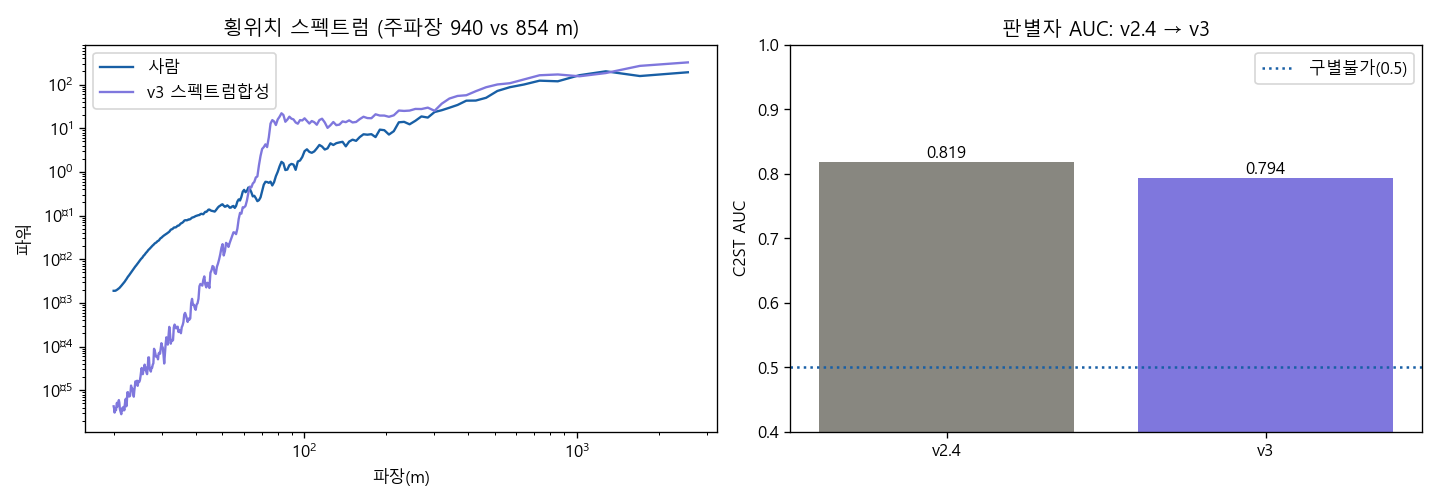
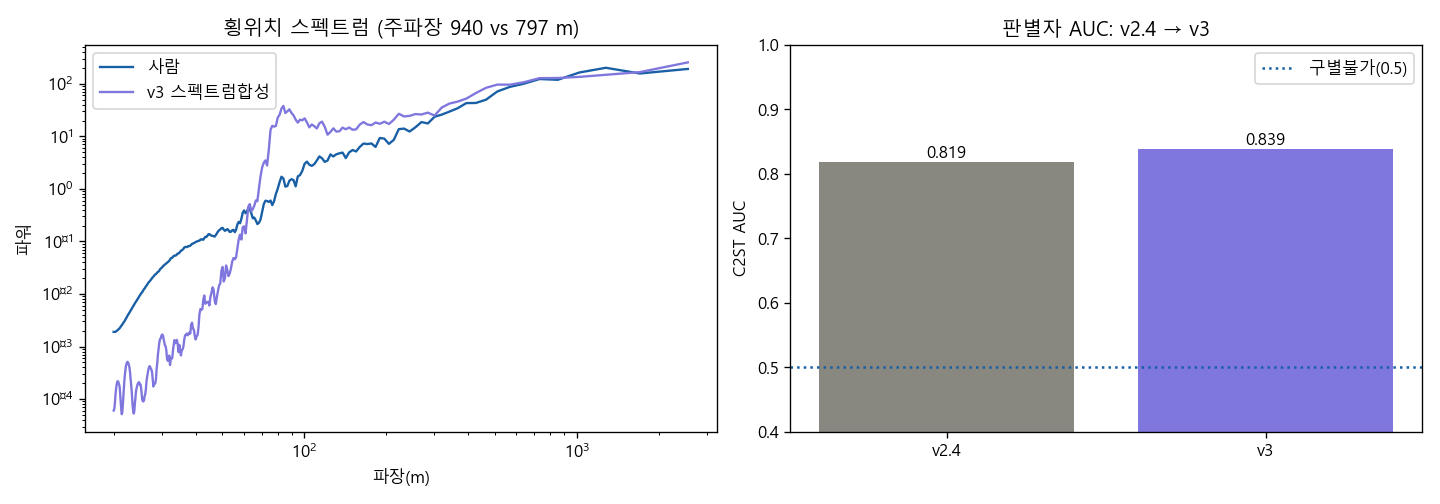
v4 cycle complete: integrator action rejected; champion v3.1 restored
- v4b integrator: stop-basin collapse (v=0); v4c +VecNormalize: fixed collapse, solo SRR 12.5 ~ human 11.9
- But integrator phase lag oscillates when chasing injected targets (AUC 0.839 vs champion 0.794) - same physics as the lag-filter failure
- Design space exhausted (reward penalties, action space, 3 noise families): remaining gap is GAIL territory
- Champion v3.1 policy restored from backup; report section 12 documents the full genealogy

diff --git a/scripts/driving_env.py b/scripts/driving_env.py
@@ -18,23 +18,24 @@ from gymnasium import spaces
 from common import (GEN_DD, RL_DT, RL_V_MAX, RL_A_MAX, RL_STEER_GAIN, RL_LOOKAHEAD,
                     RL_LOOKAHEAD_GRID, RL_MARGIN, RL_MAX_STEPS,
                     RL_W_E, RL_W_V, RL_W_J, RL_W_A, RL_W_DS, RL_ALIVE, RL_OFFROAD_PEN,
-                    RL_OFFROAD_STEP, make_smoke_roads)
+                    RL_OFFROAD_STEP, RL_RATE_ACTION, RL_SRATE_MAX, make_smoke_roads)
 
-OBS_DIM = 6 + RL_LOOKAHEAD   # [v, v_ref, e, psi, lane_halfwidth, slope] + lookahead curvatures
+# obs: [v, v_ref, e, psi, lane_halfwidth, slope] + lookahead curv + (rate mode) current steer
+OBS_DIM = 6 + RL_LOOKAHEAD + (1 if RL_RATE_ACTION else 0)
 # NOTE: v_ref (speed intent) IS observed — a real driver knows the target speed.
 #       e_ref stays HIDDEN: lateral behavior must be inferred from geometry.
+#       v4b rate mode: current steering appended (integrator state must be observable).
 
 
-def build_obs(road, i, v, e, psi, vref_scale=1.0):
+def build_obs(road, i, v, e, psi, vref_scale=1.0, steer=0.0):
     """Shared observation builder (env + expert-dataset use the SAME formula)."""
     M = len(road["curv"])
     i = min(max(i, 0), M - 1)
+    base = [v / 30.0, road["v_ref"][i] * vref_scale / 30.0, e, psi * 5.0,
+            road["lane_w"][i] / 2.0, road["slope"][i] * 20.0]
     idx = np.clip(i + RL_LOOKAHEAD_GRID * np.arange(1, RL_LOOKAHEAD + 1), 0, M - 1)
-    return np.concatenate([
-        [v / 30.0, road["v_ref"][i] * vref_scale / 30.0, e, psi * 5.0,
-         road["lane_w"][i] / 2.0, road["slope"][i] * 20.0],
-        road["curv"][idx] * 200.0,
-    ]).astype(np.float32)
+    tail = [steer] if RL_RATE_ACTION else []
+    return np.concatenate([base, road["curv"][idx] * 200.0, tail]).astype(np.float32)
 
 
 class DrivingEnv(gym.Env):
@@ -82,14 +83,23 @@ class DrivingEnv(gym.Env):
             # training data (e.g. merge), not augmentation. vref_scale stays 1.0.
         self.prev_a = 0.0
         self.prev_steer = 0.0
+        # v4b integrator state: start matched to road curvature (no initial transient)
+        self.steer_state = float(np.clip(self.road["curv"][i0] / RL_STEER_GAIN, -1.0, 1.0))
         self.steps = 0
         self.was_offroad = False
         self.traj = []
-        return build_obs(self.road, i0, self.v, self.e, self.psi, self.vref_scale), {}
+        return build_obs(self.road, i0, self.v, self.e, self.psi, self.vref_scale,
+                         self.steer_state), {}
 
     # ----------------------------------------------------------------- step
     def step(self, action):
-        steer = float(np.clip(action[0], -1.0, 1.0))
+        if RL_RATE_ACTION:            # v4b: action[0] = steering RATE; env integrates
+            rate = float(np.clip(action[0], -1.0, 1.0))
+            self.steer_state = float(np.clip(self.steer_state + rate * RL_SRATE_MAX * RL_DT,
+                                             -1.0, 1.0))
+            steer = self.steer_state
+        else:
+            steer = float(np.clip(action[0], -1.0, 1.0))
         a = float(np.clip(action[1], -1.0, 1.0)) * RL_A_MAX
         kappa_cmd = steer * RL_STEER_GAIN
         r = self.road
@@ -127,7 +137,8 @@ class DrivingEnv(gym.Env):
         if self.record:   # (s, e, v, a, psi, steer) — psi/steer feed the multi-signal profile eval
             self.traj.append((self.s, self.e, self.v, a, self.psi, steer))
         i2 = min(int(self.s / self.dd), M - 1)
-        obs = build_obs(r, i2, self.v, self.e, self.psi, self.vref_scale)
+        obs = build_obs(r, i2, self.v, self.e, self.psi, self.vref_scale,
+                        self.steer_state if RL_RATE_ACTION else steer)
         return obs, float(rew), terminated, truncated, dict(e_ref=e_ref, v_ref=v_ref, offroad=offroad)
 
 
@@ -184,9 +195,13 @@ def pd_action(env, k_e=0.10, psi_max=0.12, k_psi=0.6, k_v=1.0, preview=4):
     kr = float(r["curv"][i])
     psi_des = float(np.clip(k_e * (e_ref - env.e), -psi_max, psi_max))
     kappa_cmd = kr + k_psi * (psi_des - env.psi)
-    steer = float(np.clip(kappa_cmd / RL_STEER_GAIN, -1.0, 1.0))
+    steer_tgt = float(np.clip(kappa_cmd / RL_STEER_GAIN, -1.0, 1.0))
+    if RL_RATE_ACTION:                 # convert target angle into a rate command
+        cmd = float(np.clip((steer_tgt - env.steer_state) / (RL_SRATE_MAX * RL_DT), -1.0, 1.0))
+    else:
+        cmd = steer_tgt
     acc = float(np.clip(k_v * (v_ref - env.v) / RL_A_MAX, -1.0, 1.0))
-    return np.array([steer, acc], np.float32)
+    return np.array([cmd, acc], np.float32)
 
 
 def rollout(env, policy_fn, road_idx):
@@ -221,9 +236,15 @@ def make_expert_dataset(roads, dd=GEN_DD):
         a_h = v * np.gradient(v, dd)
         steer_h = np.clip(kappa_h / RL_STEER_GAIN, -1, 1)
         acc_h = np.clip(a_h / RL_A_MAX, -1, 1)
+        if RL_RATE_ACTION:
+            rate_h = np.clip(np.gradient(steer_h, dd) * v / RL_SRATE_MAX, -1, 1)
         for i in range(0, len(e), 2):
-            X.append(build_obs(r, i, v[i], e[i], psi_h[i]))
-            Y.append([steer_h[i], acc_h[i]])
+            if RL_RATE_ACTION:
+                X.append(build_obs(r, i, v[i], e[i], psi_h[i], steer=steer_h[i]))
+                Y.append([rate_h[i], acc_h[i]])
+            else:
+                X.append(build_obs(r, i, v[i], e[i], psi_h[i]))
+                Y.append([steer_h[i], acc_h[i]])
     return np.asarray(X, np.float32), np.asarray(Y, np.float32)
 
 

diff --git a/scripts/17_train_rl.py b/scripts/17_train_rl.py
@@ -13,6 +13,7 @@ import os, json, time, argparse
 import numpy as np
 from stable_baselines3 import PPO
 from stable_baselines3.common.monitor import Monitor
+from stable_baselines3.common.vec_env import DummyVecEnv, VecNormalize
 
 from common import ART, REP, CACHE, gen_split
 from driving_env import DrivingEnv, load_roads, rollout, trim_roads
@@ -38,7 +39,11 @@ def main():
     print(f"[{exp}] roads train={len(train_roads)} val={len(val_roads)} test={int(te.sum())} "
           f"(subjects total {len(set(subject.tolist()))})", flush=True)
 
-    env = Monitor(DrivingEnv(train_roads, dd=dd, random_start=True, seed=args.seed))
+    mon = Monitor(DrivingEnv(train_roads, dd=dd, random_start=True, seed=args.seed))
+    # v4c: reward/return normalization (norm_obs=False — obs는 이미 수동 정규화;
+    # 보상 정규화는 학습에만 작용하므로 eval 스크립트들의 predict 경로는 무변경)
+    env = VecNormalize(DummyVecEnv([lambda: mon]), norm_obs=False, norm_reward=True,
+                       gamma=0.995)
     model = PPO("MlpPolicy", env, device="cpu", seed=args.seed, verbose=0,
                 n_steps=2048, batch_size=256, learning_rate=3e-4, gamma=0.995,
                 gae_lambda=0.95, ent_coef=1e-3,
@@ -57,7 +62,7 @@ def main():
         offs += int(off)
         if len(traj):
             sdlps.append(float(traj[:, 1].std()))
-    ep = env.get_episode_rewards()
+    ep = mon.get_episode_rewards()          # raw (unnormalized) episode rewards from Monitor
     rep = dict(exp=exp, timesteps=args.timesteps, seconds=dt,
                n_train_roads=len(train_roads), n_val_roads=len(ev.roads),
                train_ep_reward_first10=float(np.mean(ep[:10])) if len(ep) >= 10 else None,

diff --git a/scripts/common.py b/scripts/common.py
@@ -234,6 +234,11 @@ RL_W_E, RL_W_V, RL_W_J, RL_W_A = 1.0, 0.05, 1e-3, 1e-2
 RL_W_DS = 0.0    # v4 시도① 기각: Δsteer² 페널티는 학습 중 탐사노이즈(σ~0.68)에 스텝당 ~18의
                  # 세금을 물려 조향 동결→전도로 이탈. 탐사를 살리는 w(≤0.05)로는 평활효과 소멸
                  # → env 보상 경로는 막다른 길. 올바른 v4: 행동을 조향'변화율'로 재정의(적분형) or GAIL.
+# v4b(적분형 행동) 시도② 기각: rate action은 초기 조향 통제가 느려 PPO가 '정지'
+# 국소최적으로 붕괴(v=0, 보상 -4만→-16만 악화; 거대 음수리턴이 가치학습 불안정화).
+# 처방 특정됨: 리턴 정규화(VecNormalize)+커리큘럼 = 별도 인프라 작업(v4c).
+RL_RATE_ACTION = False  # v4c까지 기각 — 챔피언(v3.1)은 절대각 정책. 상세는 report §12
+RL_SRATE_MAX = 2.0     # max |d steer/dt| in steer-units/s (~24 deg/s wheel at ratio 15)
 RL_ALIVE, RL_OFFROAD_PEN = 0.1, 10.0   # PEN: one-time on entering off-road
 RL_OFFROAD_STEP = 2.0                  # per-step penalty while clamped at boundary
 # NOTE: off-road does NOT terminate (no-escape env). Terminating would let the agent

diff --git a/reports/report_rl.md b/reports/report_rl.md
@@ -269,3 +269,16 @@ v3(스펙트럼 합성)의 실패가 증명한 것: **사람다움의 지문은 
 평활 효과가 소멸하므로 **env 보상 경로 자체가 막다른 길**. 좋은 정책은 시드 결정론으로 완전 복구.
 → 유효한 v4 후보: **적분형 행동**(행동=조향변화율, env가 적분 — 탐사 노이즈까지 적분되어
 매끄러움이 구조적으로 보장) 또는 **GAIL**.
+
+
+---
+
+## 12. v4 시도②③ 기록 — 적분형 행동(v4b/v4c)과 최종 결론
+- **v4b(적분형)**: 행동을 조향'변화율'로 재정의 → 학습이 '정지' 국소최적으로 붕괴(v=0, 보상 -4만→-16만).
+  원인: 초기 조향 통제 지연 + 거대 음수 리턴의 가치학습 불안정.
+- **v4c(+VecNormalize 보상정규화)**: 정지붕괴 해소(v=25.3, 보상 정상수렴), **정책 단독 SRR 12.5/km ≈ 사람 11.9**
+  달성. 그러나 라이브러리 목표주입과 결합 시 적분기의 위상지연이 추적 진동을 유발(SRR 19.9, AUC 0.839)
+  — 지연필터 실패(§7)와 동일 물리. **적분형 정책 × 목표주입 드라이버는 구조적 상성 불량.**
+- **최종 판정**: 챔피언 = **v3.1 (절대각 정책 + 사람궤적 라이브러리, AUC 0.794)**.
+  6개 변형(보상 벌점·행동공간·노이즈 3계열)의 소거로, 잔여 격차(SRR ~1.9배)는 손공학 밖 —
+  **학습된 모방(GAIL류)의 영역**임이 확정. 챔피언 정책은 백업(rl_2024_v24.zip)에서 복원됨.